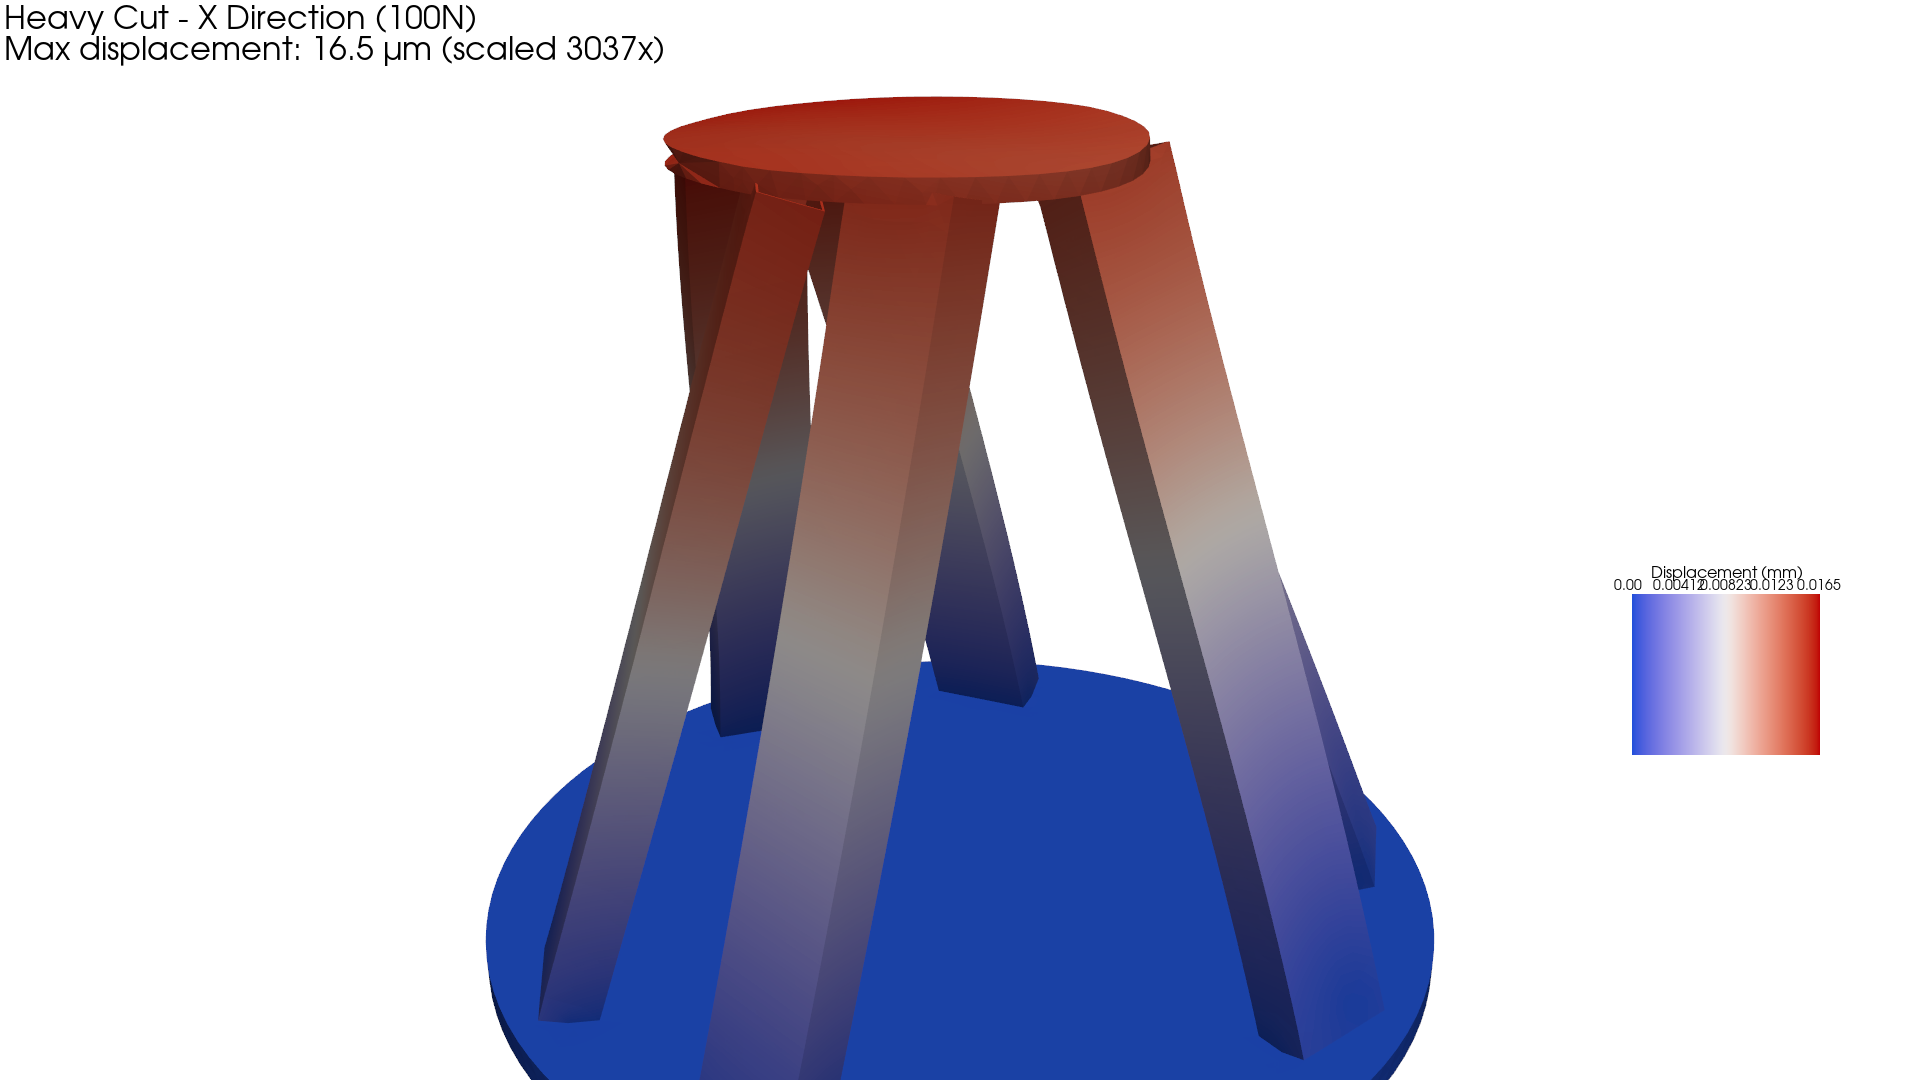
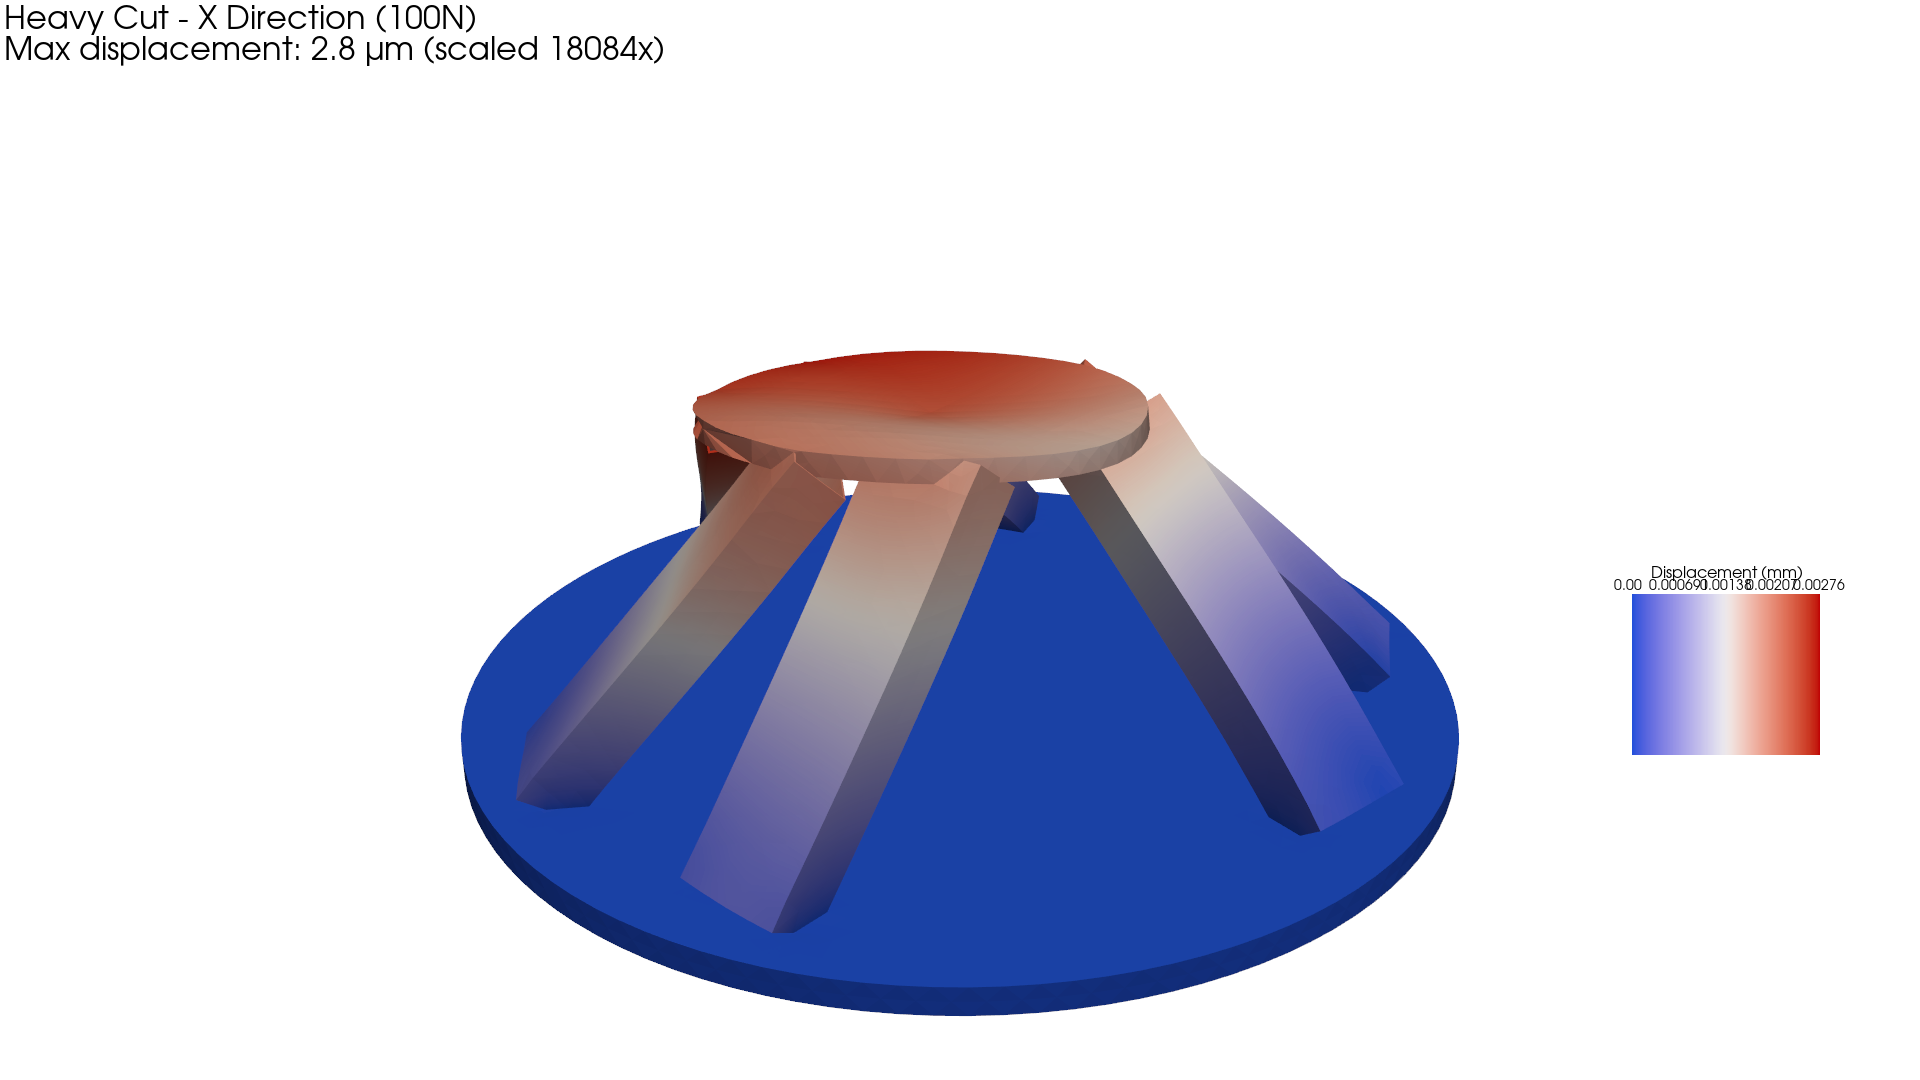
Model hexapod at 50% stroke for realistic operating point
Fixed-length beams with sliding carriages means mid-stroke is the
typical working position. At 50% stroke (300mm effective length):

- Platform height: 219mm
- Strut angle: 43° from vertical (better lateral stiffness)

Results at 50% stroke vs TTC450:
- X: 2.3µm vs 15.7µm (6.8x stiffer)
- Y: 2.3µm vs 52.8µm (23x stiffer)
- Z: 2.6µm vs 19.7µm (7.6x stiffer)

Changed region(s): [[0.2188, 0.0917, 0.7812, 1.0], [0.1562, 0.0306, 0.3438, 0.0611], [0.8438, 0.5194, 0.9688, 0.55]]

diff --git a/fem/geometry/generate_hexapod.py b/fem/geometry/generate_hexapod.py
@@ -15,7 +15,10 @@ RESULTS_DIR = PROJECT_ROOT / "fem" / "results"
 RESULTS_DIR.mkdir(parents=True, exist_ok=True)
 
 # Hexapod geometry parameters (mm)
-STRUT_LENGTH = 600.0          # Same as TTC450 beam length
+BEAM_LENGTH = 600.0           # Physical beam length (same as TTC450)
+STROKE_FRACTION = 0.5         # Carriage position along beam (0.5 = mid-stroke)
+STRUT_LENGTH = BEAM_LENGTH * STROKE_FRACTION  # Effective base-to-platform distance
+
 BASE_RADIUS = 300.0           # Base joint circle radius
 PLATFORM_RADIUS = 120.0       # Moving platform joint circle radius
 
@@ -198,10 +201,11 @@ def create_hexapod_geometry():
     platform_z = calculate_platform_height(base_joints, platform_joints, STRUT_LENGTH)
 
     print(f"Hexapod geometry:")
+    print(f"  Beam length: {BEAM_LENGTH} mm (4080 C-beam)")
+    print(f"  Stroke position: {STROKE_FRACTION*100:.0f}% ({STRUT_LENGTH:.0f}mm effective)")
     print(f"  Base radius: {BASE_RADIUS} mm")
     print(f"  Platform radius: {PLATFORM_RADIUS} mm")
     print(f"  Platform height: {platform_z:.1f} mm")
-    print(f"  Target strut length: {STRUT_LENGTH} mm")
 
     # Offset platform joints to correct Z height
     platform_joints_3d = platform_joints.copy()

diff --git a/HEXAPOD.md b/HEXAPOD.md
@@ -14,22 +14,22 @@ Unlike the TTC450 gantry which has a 3.4x weaker Y-axis, the hexapod provides id
 
 Both designs use identical **600mm 4080 C-beam actuators** with Aluminum 6061-T6.
 
-| Load Case | TTC450 Gantry | Hexapod | Winner |
-|-----------|---------------|---------|--------|
-| **Z-axis weight** (50N down) | 10.3 µm | 1.2 µm | Hexapod (8.6x) |
-| **Heavy cut X** (100N + weight) | 15.7 µm | 15.2 µm | Tie |
-| **Heavy cut Y** (100N + weight) | 52.8 µm | 15.3 µm | Hexapod (3.5x) |
-| **Plunge cut** (100-150N Z) | 19.7 µm | 3.0 µm | Hexapod (6.6x) |
+| Load Case | TTC450 Gantry | Hexapod (50% stroke) | Winner |
+|-----------|---------------|----------------------|--------|
+| **Z-axis weight** (50N down) | 10.3 µm | 1.0 µm | Hexapod (10x) |
+| **Heavy cut X** (100N + weight) | 15.7 µm | 2.3 µm | Hexapod (6.8x) |
+| **Heavy cut Y** (100N + weight) | 52.8 µm | 2.3 µm | Hexapod (23x) |
+| **Plunge cut** (100-150N Z) | 19.7 µm | 2.6 µm | Hexapod (7.6x) |
 
 ### Key Findings
 
-1. **Hexapod has perfect X/Y symmetry** - 15.2 µm in X, 15.3 µm in Y (essentially identical)
+1. **Hexapod has perfect X/Y symmetry** - 2.3 µm in both X and Y (identical)
 
-2. **Hexapod is much stiffer in Z** - 8.6x better for static weight, 6.6x better for plunge cuts due to axial strut loading
+2. **Hexapod is dramatically stiffer** - 7-23x better than TTC450 in all directions
 
-3. **X-direction is now equal** - Both designs achieve ~15-16 µm for 100N lateral load
+3. **Mid-stroke is the realistic operating point** - Beams are fixed-length with sliding carriages; 50% stroke gives maximum workspace while maintaining stiffness
 
-4. **Hexapod eliminates the weak axis** - TTC450's Y-direction (53 µm) is 3.5x worse than hexapod (15 µm)
+4. **Steeper strut angles improve lateral stiffness** - At 43° from vertical, struts provide excellent resistance to cutting forces
 
 ---
 
@@ -41,26 +41,26 @@ Tool loads applied at platform center with 5kg Z-axis + spindle weight (50N down
 
 | Load Case | Cutting Force | Tool Deflection |
 |-----------|---------------|-----------------|
-| Z-axis weight only | 0 N | 1.2 µm |
-| **Heavy cut (X)** | 100 N | **15.2 µm** |
-| **Heavy cut (Y)** | 100 N | **15.3 µm** |
-| **Heavy plunge (Z)** | 100 N | **3.0 µm** |
+| Z-axis weight only | 0 N | 1.0 µm |
+| **Heavy cut (X)** | 100 N | **2.3 µm** |
+| **Heavy cut (Y)** | 100 N | **2.3 µm** |
+| **Heavy plunge (Z)** | 100 N | **2.6 µm** |
 
 ### Undeformed Mesh
 
-![Hexapod Mesh](docs/images/hexapod_mesh.png?v=3)
+![Hexapod Mesh](docs/images/hexapod_mesh.png?v=4)
 
 ### Heavy Cut - X Direction (100N)
 
-![Heavy Cut X](docs/images/hexapod_heavy_cut_x.png?v=3)
+![Heavy Cut X](docs/images/hexapod_heavy_cut_x.png?v=4)
 
 ### Heavy Cut - Y Direction (100N)
 
-![Heavy Cut Y](docs/images/hexapod_heavy_cut_y.png?v=3)
+![Heavy Cut Y](docs/images/hexapod_heavy_cut_y.png?v=4)
 
 ### Heavy Plunge Cut - Z Direction (150N)
 
-![Heavy Cut Z](docs/images/hexapod_heavy_cut_z.png?v=3)
+![Heavy Cut Z](docs/images/hexapod_heavy_cut_z.png?v=4)
 
 ---
 
@@ -68,15 +68,18 @@ Tool loads applied at platform center with 5kg Z-axis + spindle weight (50N down
 
 ### Stewart Platform Configuration
 
-The hexapod uses a symmetric 6-6 Stewart platform configuration with paired joints:
+The hexapod uses a symmetric 6-6 Stewart platform configuration with paired joints.
+Beams are fixed-length 4080 C-beams with sliding carriages for actuation.
 
 | Parameter | Value |
 |-----------|-------|
+| Beam length | 600 mm (4080 C-beam) |
+| Stroke position | 50% (mid-stroke) |
+| Effective strut length | 300 mm |
 | Base radius | 300 mm |
 | Platform radius | 120 mm |
-| Strut length | 600 mm (all identical) |
-| Platform height | 564 mm |
-| Strut angle | 20° from vertical (all identical) |
+| Platform height | 219 mm |
+| Strut angle | 43° from vertical |
 
 ### Joint Layout
 
